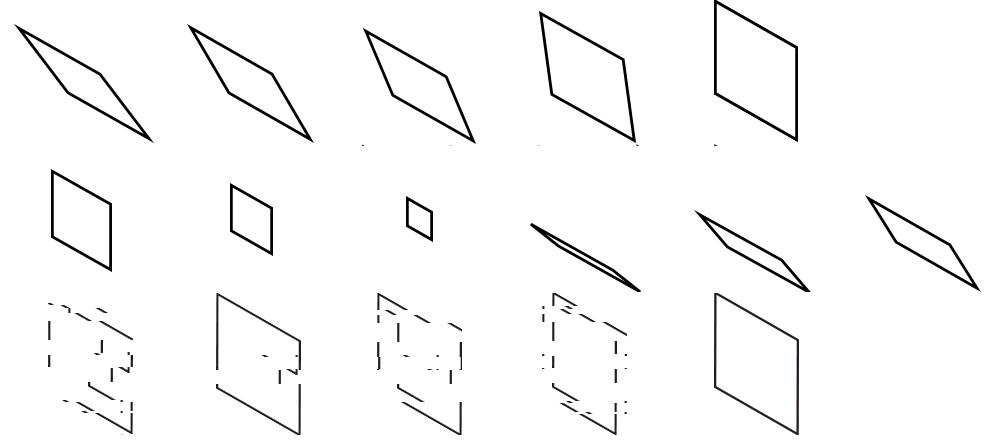
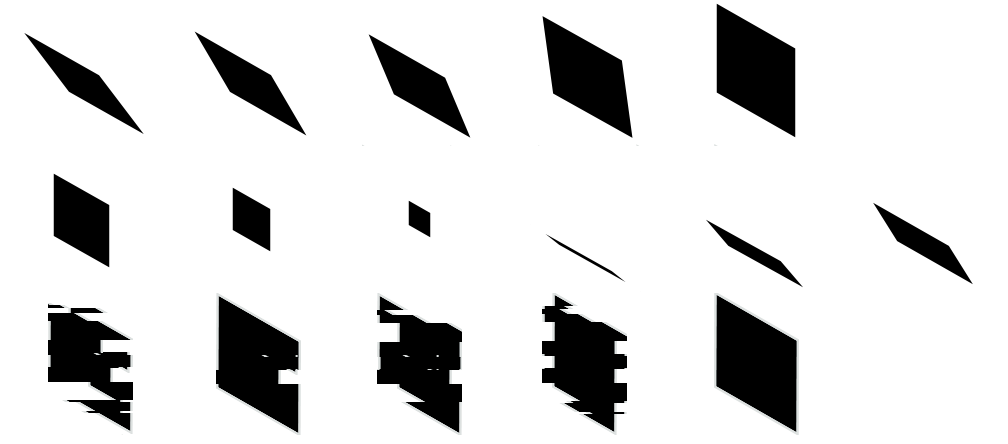
Animations use blendmodes for more awesome

diff --git a/Crystallography/Crystallography/CardCrystallonEntity.cs b/Crystallography/Crystallography/CardCrystallonEntity.cs
@@ -42,9 +42,9 @@ namespace Crystallography
 				if (pOrientation == "Left") {
 					_anim.Rotation = new Vector2(1f,0f);
 				} else if (pOrientation == "Right") {
-					_anim.Rotation = new Vector2(0.5f, -0.8660254f);
+					_anim.Rotation = new Vector2(0.515038074910054f, -0.857167300702112f);
 				} else {
-					_anim.Rotation = new Vector2(0.5f, 0.8660254f);
+					_anim.Rotation = new Vector2(0.484809620246337f, 0.874619707139396f);
 				}
 			}
 		}
@@ -114,21 +114,23 @@ namespace Crystallography
 			_anim = new SpriteTile( anim.TextureInfo, anim.TileIndex2D );
 			_anim = new SpriteTile( anim.TextureInfo, anim.TileIndex2D );
 			_anim.Pivot = this.getNode().Pivot;
+			_anim.BlendMode.BlendFunc = new BlendFunc(BlendFuncMode.ReverseSubtract, BlendFuncFactor.One, BlendFuncFactor.OneMinusSrcColor);
+			_anim.BlendMode.Enabled = true;
 			if (pStart == pEnd) {
-				Support.SetTile(_anim, pStart);
+				_anim = null;
 			} else {
 				_anim.RunAction( new Support.AnimationAction(_anim, pStart, pEnd, 1.0f, true) );
 			}
-			if (_orientationString == "Left") {
-				_anim.Rotation = new Vector2(1f,0f);
-			} else if (_orientationString == "Right") {
-				_anim.Rotation = new Vector2(-0.9524198f,0.30481062f);
-			} else {
-				_anim.Rotation = new Vector2(0.5f, 0.8660254f);
+			if (_anim != null) {
+				if (_orientationString == "Left") {
+					_anim.Rotation = new Vector2(1f,0f);
+				} else if (_orientationString == "Right") {
+					_anim.Rotation = new Vector2(0.515038074910054f, -0.857167300702112f);
+				} else {
+					_anim.Rotation = new Vector2(0.484809620246337f, 0.874619707139396f);
+				}
+				this.getNode().AddChild(_anim);
 			}
-			
-			this.getNode().AddChild(_anim);
-			
 		}
 		
 	}

diff --git a/Crystallography/Crystallography/AppMain.cs b/Crystallography/Crystallography/AppMain.cs
@@ -57,7 +57,7 @@ namespace Crystallography
 		{
 			Director.Initialize();
 			UISystem.Initialize(Director.Instance.GL.Context);
-			Director.Instance.RunWithScene( new MenuSystemScene(true), true );
+			Director.Instance.RunWithScene( new MenuSystemScene(false), true );
 			
 			while( true ){
 				SystemEvents.CheckEvents();
